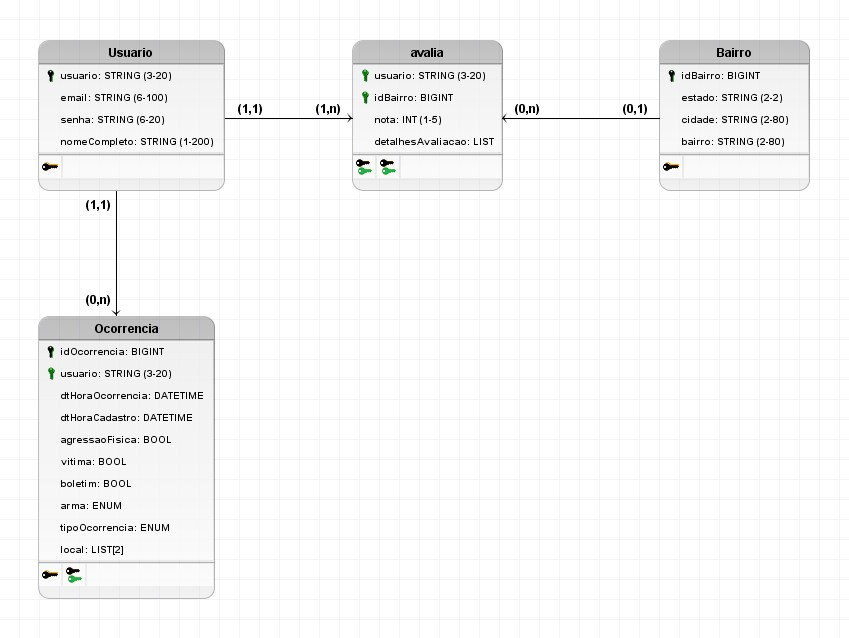
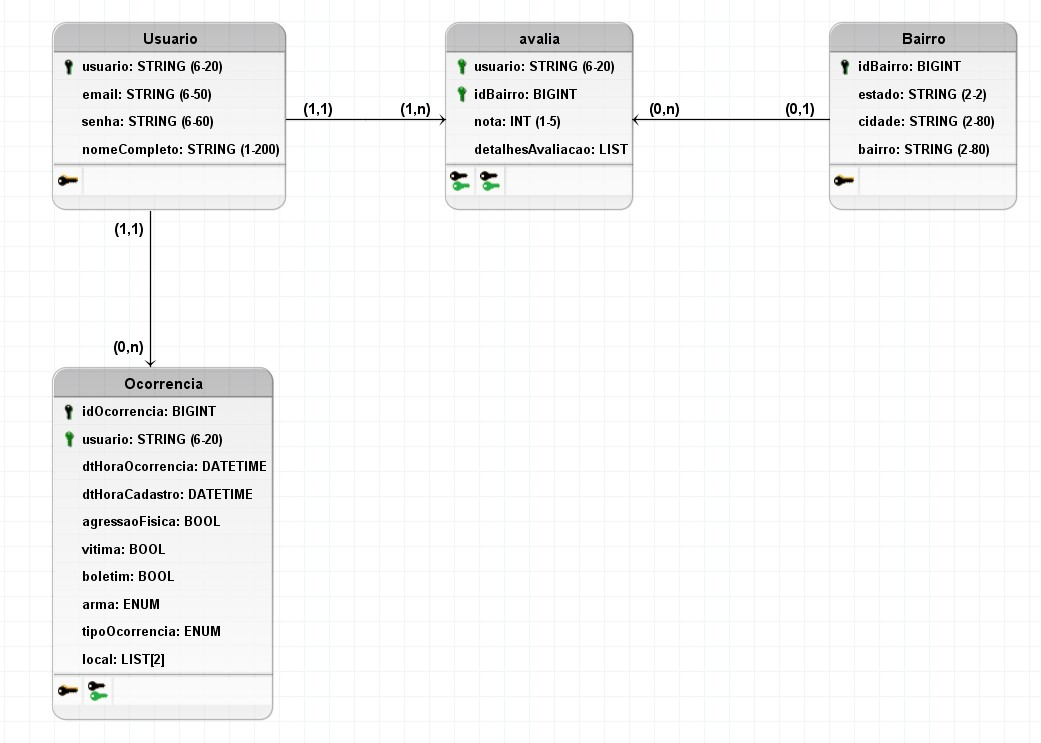
Updata data modeling

Changed region(s): [[0.0306, 0.0298, 0.98, 0.2978], [0.0306, 0.2978, 0.2756, 0.9828]]

diff --git a/docs/projeto/arquitetura.md b/docs/projeto/arquitetura.md
@@ -103,8 +103,8 @@ A Secretaria de Segurança Pública do [Distrito Federal](http://www.ssp.df.gov.
 
 ## 5. Dados 
 
-### Dados das secretarias
-Os dados das secretarias serão armazenados no MongoDB em que cada estado será uma *collection* ou tabela. Os objetos na tabela serão como no exemplo abaixo:
+### 5.1 Dados das secretarias
+Os dados das secretarias são armazenados no MongoDB em que cada estado é uma *collection* ou tabela. Os objetos ou documentos na *collection* estão seguindo esse modelo com esses crimes:
 
 ```json
 {
@@ -123,7 +123,7 @@ Os dados das secretarias serão armazenados no MongoDB em que cada estado será 
                 },
                 {
                     "crime_nature": "Roubo a Transeunte",
-                    "quantity": 8
+                    "quantity": 3
                 },
                 {
                     "crime_nature": "Roubo de Veiculo",
@@ -131,26 +131,14 @@ Os dados das secretarias serão armazenados no MongoDB em que cada estado será 
                 },
                 {
                     "crime_nature": "Roubo de Residencia",
-                    "quantity": 8
+                    "quantity": 5
                 },
                 {
                     "crime_nature": "Estupro",
-                    "quantity": 8
+                    "quantity": 15
                 },
                 {
                     "crime_nature": "Trafico de Entorpecentes",
-                    "quantity": 8
-                }
-            ],
-        },
-        {
-            "Arniqueira": [
-                {
-                    "crime_nature": "Latrocinio",
-                    "quantity": 8
-                },
-                {
-                    "crime_nature": "Roubo a Transeunte",
                     "quantity": 8
                 }
             ]
@@ -159,12 +147,73 @@ Os dados das secretarias serão armazenados no MongoDB em que cada estado será 
 }
 ```
 
-### Dado dos usuários
+#### 5.1.1 Evoluções
 
-Os dados do usuário serão armazenados no PostgreSQL com a seguint modelagem:
+Depois de usar o modelo acima, foi percebido pontos de melhoria e outro modelo mais adequado foi proposto e poderá ser implementado em futuras evoluções do serviço:
+
+```
+{
+    "_id": 1,
+    "capture_data": "04/08/2020",
+    "period": "1/2020",
+    "cities": [
+        {
+            "name": "Águas Claras",
+			"crimes":  [
+                {
+                    "nature": "Latrocinio",
+                    "quantity": 8
+                },
+                {
+                    "nature": "Roubo a Transeunte",
+                    "quantity": 3
+                },
+                {
+                    "nature": "Roubo de Veiculo",
+                    "quantity": 8
+                },
+                {
+                    "nature": "Roubo de Residencia",
+                    "quantity": 5
+                },
+                {
+                    "nature": "Furto de Veículo",
+                    "quantity": 9
+                },
+                {
+                    "nature": "Furto a Transeunte",
+                    "quantity": 8
+                },
+                {
+                    "nature": "Estupro",
+                    "quantity": 15
+                }
+            ],
+        }
+    ]
+}
+```
+
+
+### 5.2 Dado dos usuários
+
+Os dados do usuário estão sendo armazenados no PostgreSQL com a seguinte modelagem:
+
+#### 5.2.1 Diagrama Entidade-Relacionamento
+Esse diagrama mostra quais e como são as entidades e os relacionamentos entre elas. 
 ![DE-R](../images/architecture/user-service-DER.jpg)
 
+#### 5.2.2 Diagrama Lógico
+O modelo lógico dá mais detalhes de como estão implementadas as tabelas no banco de dados.
 ![Lógico](../images/architecture/user-service-logic.jpg)
+
+Os valores do tipo *enum* tem os seguintes valores possíveis:
+
+* **detalhesAvaliacao (tabela avalia):** ("iluminação ruim", "pouca movimentação de pessoas", "poucas rondas policiais", "boa iluminação", "boa movimentação de pessoas", "rondas policiais frequentes")
+* **arma (tabela Ocorrencia)**: ("nenhuma", "de fogo", "branca")
+* **tipoOcorrencia (tabela Ocorrencia)**: ("Latrocínio", "Roubo a transeunte", "Roubo de Veículo", "Roubo de Residência" , "Estupro")
+
+
 
 ## 6. Referências
 
